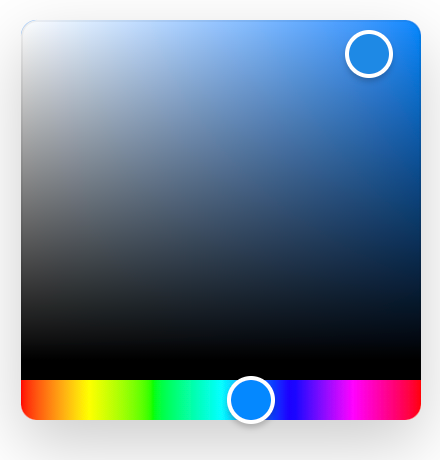
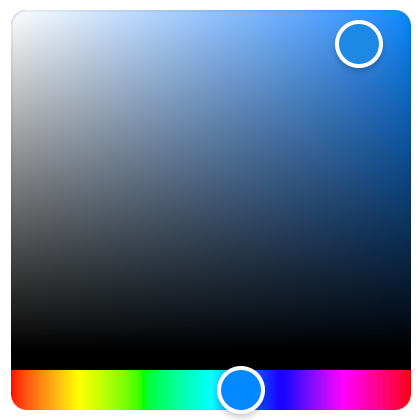
docs: use a screenshot without shadow

Changed region(s): [[0.0, 0.0, 0.9905, 0.9905]]

diff --git a/README.md b/README.md
@@ -1,6 +1,6 @@
 <div align="center">
   <a href="https://web-padawan.github.io/vanilla-colorful">
-    <img src="https://raw.githubusercontent.com/web-padawan/vanilla-colorful/master/screenshot.png" width="220" height="230" alt="Screenshot of the color picker">
+    <img src="https://raw.githubusercontent.com/web-padawan/vanilla-colorful/master/screenshot.png" width="210" height="210" alt="Screenshot of the color picker">
   </a>
 </div>
 
